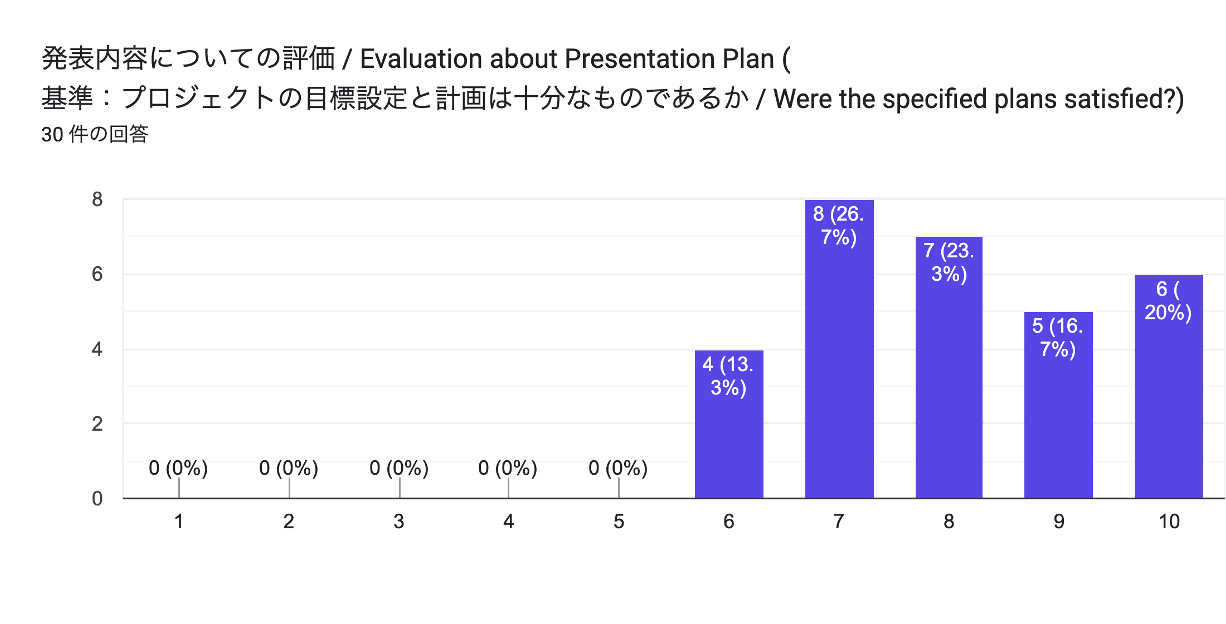
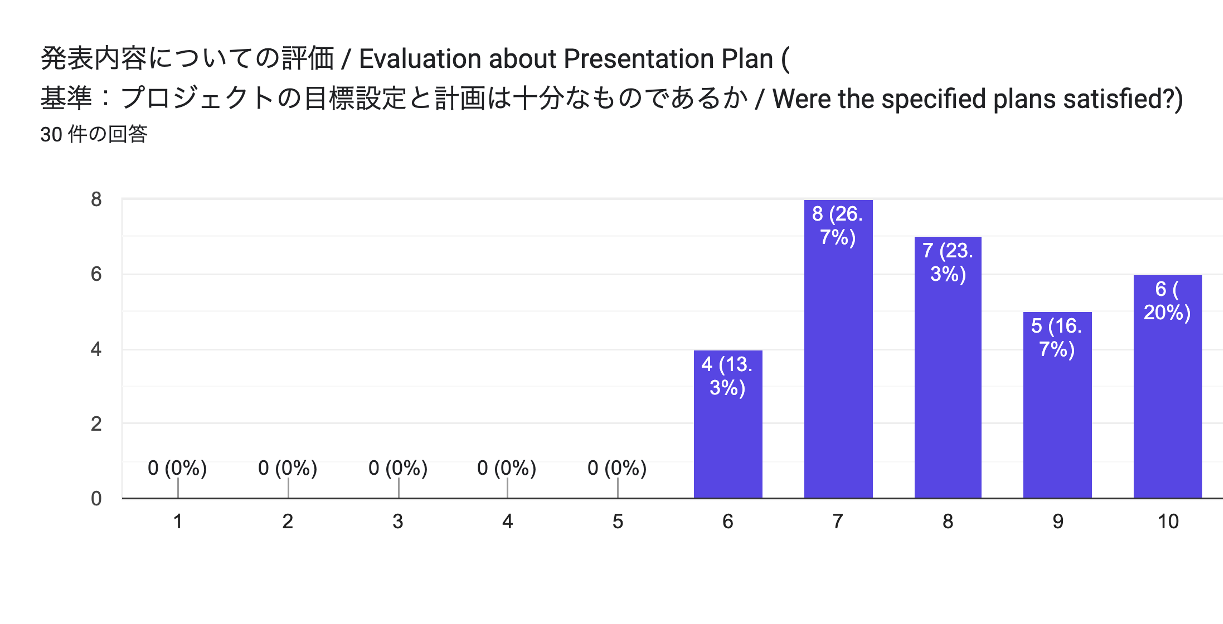
図差し替え, 3.2.2の変更を反映

diff --git a/chapter3.tex b/chapter3.tex
@@ -2,7 +2,7 @@
 本章では，テーマとして決定した通学バスの混雑問題について，課題の難しさを分析したうえで，解決策を検討した過程と，提案する解決策の内容およびその利点・留意点について述べる．
 
 \section{課題の難しさ}
-未来大学へ向かう路線バスは，授業開始前や授業終了後などの特定の時間帯に利用者が集中し，混雑が発生している．特に亀田支所前から未来大学までの区間では，満員で乗車できない利用者（以下，積み残し）や，混雑による遅延が発生することがあり，学生の通学に影響を与えている．
+未来大学へ向かう路線バスは，授業開始前などの特定の時間帯に利用者が集中し，混雑が発生している．特に亀田支所前から未来大学までの区間では，満員で乗車できない利用者（以下，積み残し）や，混雑による遅延が発生する可能性があり，学生の通学に影響を与えている．
 
 しかし，この問題は単純にバスの本数を増やせば解決できるものではない．増便を行うには，車両や運転手の確保が必要となり，バス事業者の運行コストが増加する．また，混雑する時間帯や利用者数は，曜日，授業時間割，天候などによって変化するため，常に同じ運行方法が最適であるとは限らない．さらに，路線バスは学生だけでなく一般利用者も利用している．そのため，学生の利便性だけを優先して運行方法を変更すると，途中の停留所を利用する一般利用者の利便性が低下する可能性がある．
 
@@ -12,7 +12,7 @@
 \section{解決策の検討過程}
 
 \subsection{現状の調査と分析}
-解決策の検討に先立ち，混雑の実態を把握するための調査と分析を行った．各停留所における乗降者数を計測したほか，時刻表をもとに現在のバスや市電の運行を上空からの視点で再現する俯瞰シミュレーターを作成し，運行の様子を視覚的に把握した．また，バスの運行状況や乗客の動きに関わるデータを処理し，混雑や遅延がどこで発生しているかを抽出・分析するための簡易的なプログラムを作成した．これらの分析により，特に登校時間帯の亀田支所前から未来大学までの区間に問題が集中していることを確認し，対策を検討すべき停留所や時間帯を絞り込んだ．
+解決策の検討に先立ち，混雑の実態を把握するための調査と分析を行った．一部の停留所における乗降者数を計測したほか，時刻表上の運行状況を俯瞰的に可視化するツールを作成し，運行の様子を視覚的に把握した．また，バスの運行状況や乗客の動きに関わるデータを処理し，混雑や遅延がどこで発生しているかを抽出・分析するための簡易的なプログラムを作成した．これらの分析により，特に登校時間帯の亀田支所前から未来大学までの区間に問題が集中していることを確認し，対策を検討すべき停留所や時間帯を絞り込んだ．
 % TODO: 乗降者数計測の時期・対象停留所・方法を補足する．
 %       俯瞰シミュレーターのスクリーンショットを図として入れる（figures/ch3_overview_sim.png 想定）．
 \bunseki{野澤遼大}
@@ -20,9 +20,9 @@
 \subsection{解決策候補の比較検討}
 本プロジェクトでは，未来大学行きのバスの混雑を緩和する方法について，グループで複数回の話し合いを行い，さまざまな解決策を検討した．
 
-初めに，学生専用バスの運行，連節バスの導入，快速バスの導入など，複数の案を挙げ，それぞれのメリットやデメリットについて議論した．検討した主な案の比較を表~\ref{tab:solution-comparison} に示す．学生専用バスは混雑を大きく緩和できる可能性がある一方で，新たな車両や運転手の確保が必要となるため，実現には多くの費用がかかると考えられた．また，連節バスについても輸送能力は高いが，車両の導入や道路環境などの課題があり，短期間で実施することは難しいと考えられた．
+初めに，学生専用バスの運行，連節バスの導入，快速バスの導入など，複数の案を挙げ，それぞれのメリットやデメリットについて議論した．検討した主な案の比較を表~\ref{tab:solution-comparison} に示す．なお，検討初期には，通学全体の利便性を向上させる案として深夜バスも挙げたが，登校時間帯の混雑を直接緩和する案ではないため，主要な候補から除外した．学生専用バスは混雑を大きく緩和できる可能性がある一方で，新たな車両や運転手の確保が必要となるため，実現には多くの費用がかかると考えられた．また，連節バスについても輸送能力は高いが，車両の導入や道路環境などの課題があり，短期間で実施することは難しいと考えられた．
 
-その中で，既存の運行ダイヤを大きく変更せずに実施できるという点から，快速バスの導入が最も現実的な解決策であるという結論に至った．快速バスであれば，一部の停留所を通過することで所要時間を短縮でき，利用者を通常便と分散させることによって混雑の緩和が期待できる．
+その中で，既存の運行ダイヤを大きく変更せずに実施できるという点から，快速バスの導入が，新たな車両や運転手を必要とせず既存の運行の工夫で実施できる，最も実現可能性の高い解決策であるという結論に至った．快速バスであれば，一部の停留所を通過することで所要時間を短縮でき，利用者を通常便と分散させることによって混雑の緩和が期待できる．
 
 \begin{table}[tb]
   \centering

diff --git a/chapter2.tex b/chapter2.tex
@@ -65,7 +65,7 @@
 \subsubsection{『データ分析のための数理モデル入門』}
 本教科書では，データを分析することの目的や，数理モデルを用いて現象を理解・予測するための考え方について学んだ．データ分析では，単にデータを処理するだけではなく，対象となる現象や目的に応じて適切なモデルを構築することが重要であることを理解した．その後，モデルの設計，パラメータの推定，モデルの評価という数理モデリングの一連の流れについて学習した．
 
-まず，モデルを決めるための要素とモデルの設計方法について学んだ．数理モデルには2つのアプローチ方法があり，1つ目は理解志向型モデリングである．これは，現象の仕組みや原因を明らかにすることを目的としたモデルである．2つ目は応用志向型モデリングであり，現実の問題を解決したり，将来を予測したりすることを目的としたモデルである．また，モデルを決定する際には，目的や利用できるデータを考慮し，適切な変数を選択することが重要であると理解した．特に，モデルの性質が変わらない範囲で変数を必要最小限にすることで，モデルの構造が分かりやすくなり，解析や解釈が容易になることを学んだ．
+まず，モデルを決めるための要素とモデルの設計方法について学んだ．数理モデルには，理解志向型モデリングと応用志向型モデリングという2つのアプローチがある．理解志向型モデリングは，現象の仕組みや原因を明らかにすることを目的としたモデルである．一方，応用志向型モデリングは，現実の問題を解決したり，将来を予測したりすることを目的としたモデルである．また，モデルを決定する際には，目的や利用できるデータを考慮し，適切な変数を選択することが重要であると理解した．特に，モデルの性質が変わらない範囲で変数を必要最小限にすることで，モデルの構造が分かりやすくなり，解析や解釈が容易になることを学んだ．
 
 次に，パラメータを推定する方法について学んだ．数理モデルを構築するだけでは現実の現象を十分に表現することは難しく，実際のデータに適したパラメータを推定することが重要であると理解した．特に，予測値と実測値との差を評価し，その誤差ができるだけ小さくなるようにパラメータを決定する最小二乗法について学んだ．これにより，モデルの精度を高めるためには，適切なパラメータ推定が不可欠であることを理解した．
 

diff --git a/docs/chapter3.md b/docs/chapter3.md
@@ -4,7 +4,7 @@
 
 ## 3.1 課題の難しさ
 
-未来大学へ向かう路線バスは，授業開始前や授業終了後などの特定の時間帯に利用者が集中し，混雑が発生している．特に亀田支所前から未来大学までの区間では，満員で乗車できない利用者（以下，積み残し）や，混雑による遅延が発生することがあり，学生の通学に影響を与えている．
+未来大学へ向かう路線バスは，授業開始前などの特定の時間帯に利用者が集中し，混雑が発生している．特に亀田支所前から未来大学までの区間では，満員で乗車できない利用者（以下，積み残し）や，混雑による遅延が発生する可能性があり，学生の通学に影響を与えている．
 
 しかし，この問題は単純にバスの本数を増やせば解決できるものではない．増便を行うには，車両や運転手の確保が必要となり，バス事業者の運行コストが増加する．また，混雑する時間帯や利用者数は，曜日，授業時間割，天候などによって変化するため，常に同じ運行方法が最適であるとは限らない．さらに，路線バスは学生だけでなく一般利用者も利用している．そのため，学生の利便性だけを優先して運行方法を変更すると，途中の停留所を利用する一般利用者の利便性が低下する可能性がある．
 
@@ -16,7 +16,7 @@
 
 ### 3.2.1 現状の調査と分析
 
-解決策の検討に先立ち，混雑の実態を把握するための調査と分析を行った．各停留所における乗降者数を計測したほか，時刻表をもとに現在のバスや市電の運行を上空からの視点で再現する俯瞰シミュレーターを作成し，運行の様子を視覚的に把握した．また，バスの運行状況や乗客の動きに関わるデータを処理し，混雑や遅延がどこで発生しているかを抽出・分析するための簡易的なプログラムを作成した．これらの分析により，特に登校時間帯の亀田支所前から未来大学までの区間に問題が集中していることを確認し，対策を検討すべき停留所や時間帯を絞り込んだ．
+解決策の検討に先立ち，混雑の実態を把握するための調査と分析を行った．一部の停留所における乗降者数を計測したほか，時刻表上の運行状況を俯瞰的に可視化するツールを作成し，運行の様子を視覚的に把握した．また，バスの運行状況や乗客の動きに関わるデータを処理し，混雑や遅延がどこで発生しているかを抽出・分析するための簡易的なプログラムを作成した．これらの分析により，特に登校時間帯の亀田支所前から未来大学までの区間に問題が集中していることを確認し，対策を検討すべき停留所や時間帯を絞り込んだ．
 
 > **TODO**: 乗降者数計測の時期・対象停留所・方法を補足する．俯瞰シミュレーターのスクリーンショットを図として入れる（`figures/ch3_overview_sim.png` 想定）．
 
@@ -26,9 +26,9 @@
 
 本プロジェクトでは，未来大学行きのバスの混雑を緩和する方法について，グループで複数回の話し合いを行い，さまざまな解決策を検討した．
 
-初めに，学生専用バスの運行，連節バスの導入，快速バスの導入など，複数の案を挙げ，それぞれのメリットやデメリットについて議論した．検討した主な案の比較を表3.1に示す．学生専用バスは混雑を大きく緩和できる可能性がある一方で，新たな車両や運転手の確保が必要となるため，実現には多くの費用がかかると考えられた．また，連節バスについても輸送能力は高いが，車両の導入や道路環境などの課題があり，短期間で実施することは難しいと考えられた．
+初めに，学生専用バスの運行，連節バスの導入，快速バスの導入など，複数の案を挙げ，それぞれのメリットやデメリットについて議論した．検討した主な案の比較を表3.1に示す．なお，検討初期には，通学全体の利便性を向上させる案として深夜バスも挙げたが，登校時間帯の混雑を直接緩和する案ではないため，主要な候補から除外した．学生専用バスは混雑を大きく緩和できる可能性がある一方で，新たな車両や運転手の確保が必要となるため，実現には多くの費用がかかると考えられた．また，連節バスについても輸送能力は高いが，車両の導入や道路環境などの課題があり，短期間で実施することは難しいと考えられた．
 
-その中で，既存の運行ダイヤを大きく変更せずに実施できるという点から，快速バスの導入が最も現実的な解決策であるという結論に至った．快速バスであれば，一部の停留所を通過することで所要時間を短縮でき，利用者を通常便と分散させることによって混雑の緩和が期待できる．
+その中で，既存の運行ダイヤを大きく変更せずに実施できるという点から，快速バスの導入が，新たな車両や運転手を必要とせず既存の運行の工夫で実施できる，最も実現可能性の高い解決策であるという結論に至った．快速バスであれば，一部の停留所を通過することで所要時間を短縮でき，利用者を通常便と分散させることによって混雑の緩和が期待できる．
 
 **表3.1 検討した解決策の比較**
 